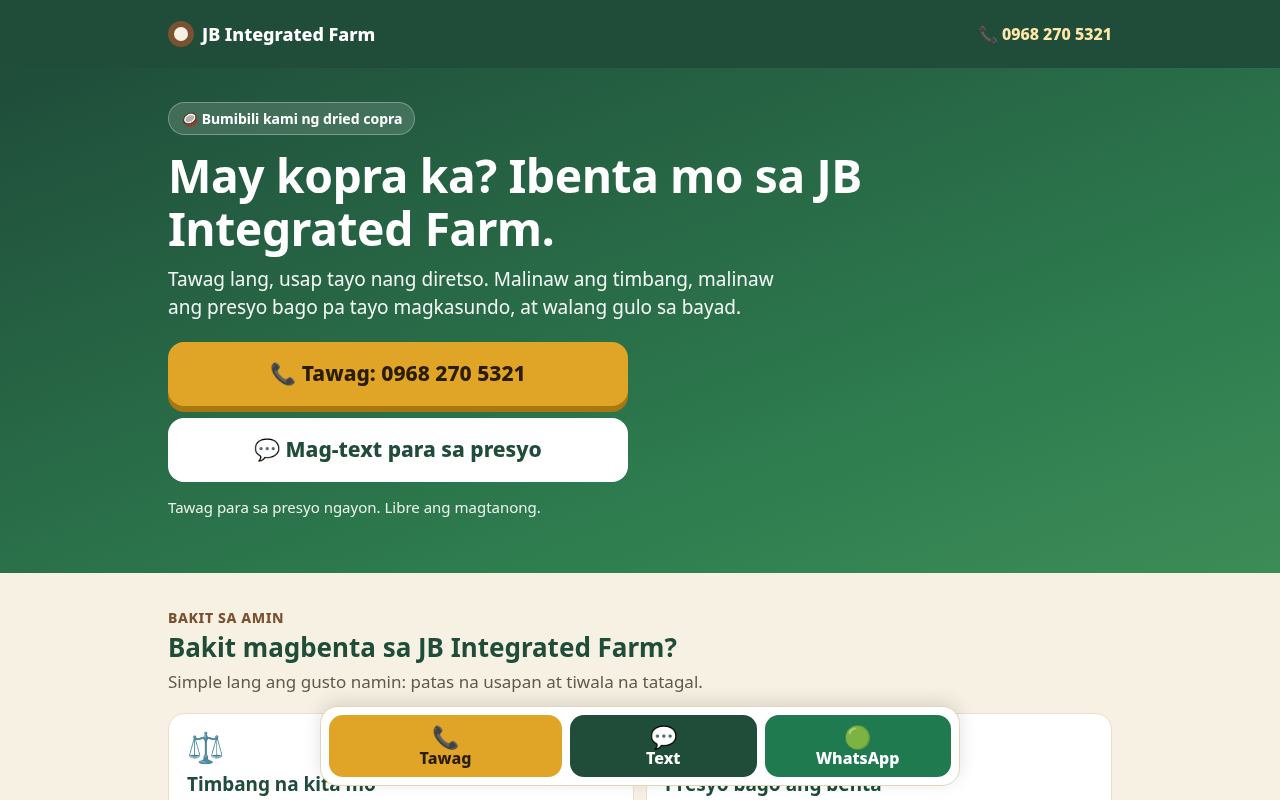
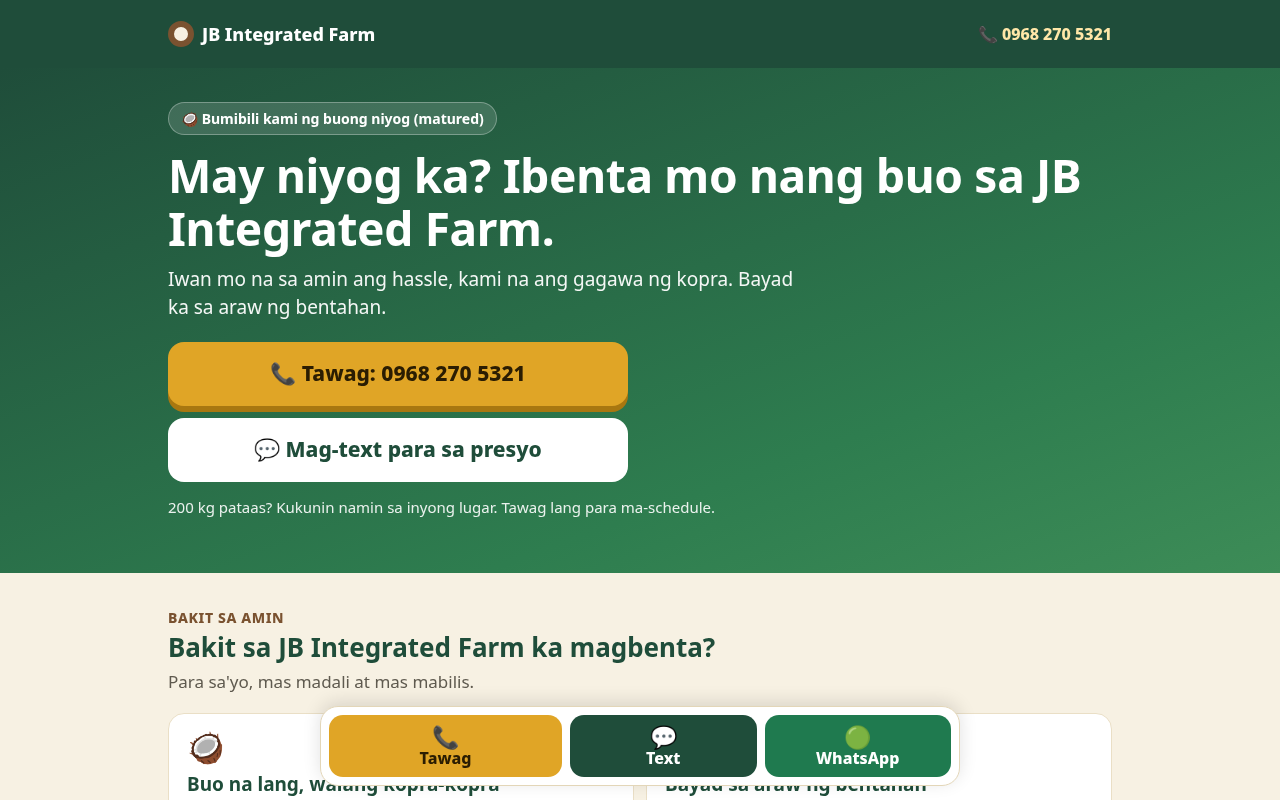
v1.6.0 /buying: offer is whole matured coconuts, pay on sale day, 200 kg+ pickup, Taglish copy, new og.png and tests (NOT deployed)

diff --git a/buying/index.html b/buying/index.html
@@ -3,38 +3,98 @@
 <head>
 <meta charset="utf-8">
 <meta name="viewport" content="width=device-width,initial-scale=1,viewport-fit=cover">
-<title>Magbenta ng Kopra sa JB Integrated Farm | Tawag 0968 270 5321</title>
-<meta name="description" content="Nagbebenta ka ba ng dried copra? Bumibili ang JB Integrated Farm. Tawag o text sa 0968 270 5321 para sa presyo ngayon, timbang na malinaw, at bayad na walang gulo.">
+<title>Magbenta ng Buong Niyog sa JB Integrated Farm | Tawag 0968 270 5321</title>
+<meta name="description" content="Bumibili kami ng buong niyog na matured. Kami na ang gagawa ng kopra. Bayad ka sa araw ng bentahan. 200 kg pataas, kukunin namin sa inyong lugar. Tawag 0968 270 5321.">
 <link rel="canonical" href="https://copra.johnnybodegas.com/buying">
 <meta name="theme-color" content="#1f4d3a">
 <meta property="og:type" content="website">
 <meta property="og:site_name" content="JB Integrated Farm">
-<meta property="og:title" content="Magbenta ng Kopra sa JB Integrated Farm">
-<meta property="og:description" content="Bumibili kami ng dried copra. Tawag o text sa 0968 270 5321 para sa presyo ngayon.">
+<meta property="og:title" content="Magbenta ng Buong Niyog sa JB Integrated Farm">
+<meta property="og:description" content="Bumibili kami ng buong niyog na matured. Bayad sa araw ng bentahan. Tawag 0968 270 5321.">
 <meta property="og:url" content="https://copra.johnnybodegas.com/buying">
 <meta property="og:image" content="https://copra.johnnybodegas.com/buying/og.png">
 <meta property="og:image:width" content="1200">
 <meta property="og:image:height" content="630">
 <meta property="og:locale" content="tl_PH">
 <meta name="twitter:card" content="summary_large_image">
-<meta name="twitter:title" content="Magbenta ng Kopra sa JB Integrated Farm">
-<meta name="twitter:description" content="Bumibili kami ng dried copra. Tawag o text sa 0968 270 5321 para sa presyo ngayon.">
+<meta name="twitter:title" content="Magbenta ng Buong Niyog sa JB Integrated Farm">
+<meta name="twitter:description" content="Bumibili kami ng buong niyog na matured. Bayad sa araw ng bentahan. Tawag 0968 270 5321.">
 <meta name="twitter:image" content="https://copra.johnnybodegas.com/buying/og.png">
 <link rel="icon" href="../icons/icon-192.png">
 <script type="application/ld+json">
-{"@context":"https://schema.org","@type":"Organization","name":"JB Integrated Farm","telephone":"+639682705321","url":"https://copra.johnnybodegas.com/buying"}
+{"@context": "https://schema.org", "@type": "Organization", "name": "JB Integrated Farm", "telephone": "+639682705321", "url": "https://copra.johnnybodegas.com/buying"}
 </script>
 <script type="application/ld+json">
-{"@context":"https://schema.org","@type":"FAQPage","mainEntity":[
-{"@type":"Question","name":"Magkano ang bili ninyo ng kopra?","acceptedAnswer":{"@type":"Answer","text":"Nagbabago ang presyo ng kopra depende sa merkado. Tawag o text sa 0968 270 5321 para sa presyo ngayon bago ka magdala o magpa-pickup."}},
-{"@type":"Question","name":"Anong klase ng kopra ang binibili ninyo?","acceptedAnswer":{"@type":"Answer","text":"Dried copra (tuyong kopra). Mas tuyo at mas malinis, mas maganda. Sabihin sa amin ang dami at kondisyon para makapag-usap tayo."}},
-{"@type":"Question","name":"May minimum ba na kilo?","acceptedAnswer":{"@type":"Answer","text":"Tawag muna para mapag-usapan. Sabihin kung ilang kilo ang meron ka at kung saan ka, at sasabihin namin kung paano ang pinakamadali."}},
-{"@type":"Question","name":"Kayo ba ang kukuha o ako ang magdadala?","acceptedAnswer":{"@type":"Answer","text":"Pinag-uusapan namin ito sa tawag. Depende sa dami at lugar, pwede ang pickup o drop-off. Malinaw ito bago pa tayo magkasundo."}},
-{"@type":"Question","name":"Paano ang timbang?","acceptedAnswer":{"@type":"Answer","text":"Tinitimbang ang kopra sa harap mo para pareho nating nakikita ang kilo. Walang tagong bawas."}},
-{"@type":"Question","name":"Paano at kailan ang bayad?","acceptedAnswer":{"@type":"Answer","text":"Pinag-uusapan ang paraan ng bayad bago ang benta, para alam mo na agad kung paano at kailan ka mababayaran."}},
-{"@type":"Question","name":"Paano kung hindi pa gaanong tuyo ang kopra ko?","acceptedAnswer":{"@type":"Answer","text":"Tawag pa rin. Sabihin ang kondisyon at pag-uusapan natin. Mas maganda kung patuyuin muna nang maayos para mas sulit ang benta mo."}},
-{"@type":"Question","name":"Paano kayo makokontak?","acceptedAnswer":{"@type":"Answer","text":"Tawag o text sa 0968 270 5321. Pwede ring mag-message sa WhatsApp sa parehong numero."}}
-]}
+{
+"@context": "https://schema.org",
+"@type": "FAQPage",
+"mainEntity": [
+{
+"@type": "Question",
+"name": "Anong klase ng niyog ang binibili ninyo?",
+"acceptedAnswer": {
+"@type": "Answer",
+"text": "Buong niyog na matured, yung matanda na at hinog na hinog. Hindi pa tinatapahan, buo pa. Kung hindi ka sigurado, tawagan kami para ma-confirm kung pasok ang niyog ninyo."
+}
+},
+{
+"@type": "Question",
+"name": "Kailangan ko pa bang gawing kopra?",
+"acceptedAnswer": {
+"@type": "Answer",
+"text": "Hindi na po. Kami na ang bahala sa pagbabalat, pagbiyak at pagpapatuyo. Ibenta mo lang ang buong niyog."
+}
+},
+{
+"@type": "Question",
+"name": "Magkano ang bili ninyo?",
+"acceptedAnswer": {
+"@type": "Answer",
+"text": "Nagbabago ang presyo ayon sa merkado. Tawag o text lang sa 0968 270 5321 para sa presyo ngayon."
+}
+},
+{
+"@type": "Question",
+"name": "Kailan ako mababayaran?",
+"acceptedAnswer": {
+"@type": "Answer",
+"text": "Bayad ka sa araw ng bentahan."
+}
+},
+{
+"@type": "Question",
+"name": "Kukunin ba ninyo ang niyog sa amin?",
+"acceptedAnswer": {
+"@type": "Answer",
+"text": "Oo po, kung 200 kg pataas, kukunin namin sa inyong lugar. Tawag lang para ma-schedule."
+}
+},
+{
+"@type": "Question",
+"name": "Paano kung wala pang 200 kg?",
+"acceptedAnswer": {
+"@type": "Answer",
+"text": "Tawag lang po, pag-usapan natin ang pinakamainam."
+}
+},
+{
+"@type": "Question",
+"name": "Ano ang kailangan kong sabihin pag tumawag ako?",
+"acceptedAnswer": {
+"@type": "Answer",
+"text": "Ilang kilo ang niyog mo (kahit tantya lang) at saan ang lugar mo. Yun lang muna."
+}
+},
+{
+"@type": "Question",
+"name": "Paano kayo makokontak?",
+"acceptedAnswer": {
+"@type": "Answer",
+"text": "Tawag o text sa 0968 270 5321. Pwede rin sa WhatsApp, parehong numero."
+}
+}
+]
+}
 </script>
 <style>
 :root{--g:#1f4d3a;--g2:#2e7d4f;--b:#7a5230;--c:#f7f1e3;--c2:#efe5cf;--a:#e0a526;--t:#2b2a26;--m:#5f5a4f}
@@ -100,34 +160,34 @@ footer{text-align:center;color:var(--m);font-size:14px;padding:22px 0 30px}
 <header class="top"><div class="wrap"><a class="brand" href="#"><i class="dot"></i>JB Integrated Farm</a><a class="tel" href="tel:+639682705321">📞 0968 270 5321</a></div></header>
 
 <div class="hero"><div class="wrap">
- <span class="tag">🥥 Bumibili kami ng dried copra</span>
- <h1>May kopra ka? Ibenta mo sa JB Integrated Farm.</h1>
- <p class="lead">Tawag lang, usap tayo nang diretso. Malinaw ang timbang, malinaw ang presyo bago pa tayo magkasundo, at walang gulo sa bayad.</p>
+ <span class="tag">🥥 Bumibili kami ng buong niyog (matured)</span>
+ <h1>May niyog ka? Ibenta mo nang buo sa JB Integrated Farm.</h1>
+ <p class="lead" id="tagline">Iwan mo na sa amin ang hassle, kami na ang gagawa ng kopra. Bayad ka sa araw ng bentahan.</p>
  <div class="ctas">
   <a class="big call" href="tel:+639682705321">📞 Tawag: 0968 270 5321</a>
-  <a class="big sms js-sms" href="sms:+639682705321?body=Magandang%20araw%20po%2C%20magbebenta%20po%20ako%20ng%20kopra.%20Ilang%20kilo%3A%20__%20.%20Lugar%3A%20__">💬 Mag-text para sa presyo</a>
+  <a class="big sms" href="sms:+639682705321?body=Magandang%20araw%20po%2C%20magbebenta%20po%20ako%20ng%20buong%20niyog%20%28matured%29.%20Ilang%20kilo%3A%20__%20.%20Lugar%3A%20__">💬 Mag-text para sa presyo</a>
  </div>
- <p class="note">Tawag para sa presyo ngayon. Libre ang magtanong.</p>
+ <p class="note">200 kg pataas? Kukunin namin sa inyong lugar. Tawag lang para ma-schedule.</p>
 </div></div>
 
 <section><div class="wrap">
  <p class="kick">Bakit sa amin</p>
- <h2>Bakit magbenta sa JB Integrated Farm?</h2>
- <p class="sub">Simple lang ang gusto namin: patas na usapan at tiwala na tatagal.</p>
+ <h2>Bakit sa JB Integrated Farm ka magbenta?</h2>
+ <p class="sub">Para sa'yo, mas madali at mas mabilis.</p>
  <div class="grid g2">
-  <div class="card"><span class="ic">⚖</span><h3>Timbang na kita mo</h3><p>Tinitimbang sa harap mo. Pareho nating nakikita ang kilo.</p></div>
-  <div class="card"><span class="ic">🤝</span><h3>Presyo bago ang benta</h3><p>Sasabihin namin ang presyo ngayon bago ka magdala o bago kami kumuha. Walang sorpresa.</p></div>
-  <div class="card"><span class="ic">📞</span><h3>Isang tawag lang</h3><p>Diretso sa amin ang numero. Tawag, text o WhatsApp, sasagutin ka namin.</p></div>
-  <div class="card"><span class="ic">🌾</span><h3>Kapwa magsasaka ang kausap mo</h3><p>Farm kami, hindi lang buyer. Alam namin ang hirap ng pagpapatuyo ng kopra.</p></div>
+  <div class="card"><span class="ic">🥥</span><h3>Buo na lang, walang kopra-kopra</h3><p>Hindi mo na kailangang magbalat, magbiyak at magpatuyo. Kami na ang gagawa ng kopra.</p></div>
+  <div class="card"><span class="ic">💵</span><h3>Bayad sa araw ng bentahan</h3><p>Hindi ka na maghihintay. Bayad ka sa mismong araw na nagbenta ka.</p></div>
+  <div class="card"><span class="ic">🚚</span><h3>200 kg pataas, kukunin namin</h3><p>Kung 200 kg pataas ang niyog mo, kukunin namin sa inyong lugar. Tawag lang para ma-arrange.</p></div>
+  <div class="card"><span class="ic">📞</span><h3>Isang tawag lang</h3><p>Tawag, text o WhatsApp sa 0968 270 5321. Simple lang ang usapan.</p></div>
  </div>
 </div></section>
 
 <section class="alt"><div class="wrap">
  <p class="kick">Ano ang binibili namin</p>
- <h2>Dried copra (tuyong kopra)</h2>
- <p class="sub">Kung may dried copra ka, maliit man o marami, tawag lang at pag-usapan natin. Sabihin ang dami at kondisyon para mabigyan ka namin ng malinaw na sagot.</p>
+ <h2>Buong niyog na matured</h2>
+ <p class="sub">Yung matanda na at hinog na hinog na niyog, buo pa at hindi pa tinatapahan. Hindi sigurado kung pasok ang niyog mo? Tawagan kami para ma-confirm kung pasok ang niyog ninyo.</p>
  <div class="price" id="price">
-  <div class="kick">Presyo ng kopra</div>
+  <div class="kick">Presyo ng niyog</div>
   <div class="pv" id="pv" hidden></div>
   <p style="margin:6px 0 14px"><b id="pmsg">Tawag para sa presyo ngayon.</b><br><span class="small" style="color:var(--m)">Nagbabago ang presyo ayon sa merkado, kaya tawag muna para sigurado.</span></p>
   <a class="big call" href="tel:+639682705321" style="max-width:420px;margin:0 auto">📞 Alamin ang presyo ngayon</a>
@@ -137,35 +197,33 @@ footer{text-align:center;color:var(--m);font-size:14px;padding:22px 0 30px}
 <section><div class="wrap">
  <p class="kick">Paano magbenta</p>
  <h2>4 na madaling hakbang</h2>
- <p class="sub">Walang komplikadong proseso.</p>
+ <p class="sub">Walang komplikado.</p>
  <div class="grid g4">
-  <div class="card step"><span class="num">1</span><h3>Tawag o text</h3><p>Tawag o text sa 0968 270 5321.</p></div>
-  <div class="card step"><span class="num">2</span><h3>Sabihin ang kilo at lugar</h3><p>Ilang kilo ang meron ka at saan ka.</p></div>
-  <div class="card step"><span class="num">3</span><h3>Magkasundo</h3><p>Usapan sa presyo, at kung pickup o drop-off.</p></div>
-  <div class="card step"><span class="num">4</span><h3>Timbang at bayad</h3><p>Timbang sa harap mo, tapos bayad ayon sa napagkasunduan.</p></div>
+  <div class="card step"><span class="num">1</span><h3>Tawag o text</h3><p>Sabihin ang dami at lugar.</p></div>
+  <div class="card step"><span class="num">2</span><h3>Usapan</h3><p>Pag-usapan ang presyo at kung pickup o dala.</p></div>
+  <div class="card step"><span class="num">3</span><h3>Bentahan</h3><p>Bentahan at bayad sa araw na iyon.</p></div>
+  <div class="card step"><span class="num">4</span><h3>Kami na ang bahala</h3><p>Kami na ang bahala sa kopra.</p></div>
  </div>
 </div></section>
 
 <section class="alt"><div class="wrap">
  <p class="kick">Bago ka tumawag</p>
- <h2>Ihanda ang kopra mo</h2>
- <p class="sub">Simpleng tips para mas sulit ang benta mo.</p>
+ <h2>Ihanda ang niyog mo</h2>
+ <p class="sub">Simpleng tips lang.</p>
  <ul class="tips">
-  <li><b>Patuyuin nang maayos.</b> Mas tuyo, mas maganda ang kalidad at mas madali ang usapan.</li>
-  <li><b>Malinis.</b> Walang lupa, bato, o ibang halo.</li>
-  <li><b>Naka-sako.</b> Ilagay sa matibay na sako para madaling buhatin at timbangin.</li>
-  <li><b>Tantyahin ang dami.</b> Ilang sako o ilang kilo, para mabilis ang usapan.</li>
-  <li><b>Iwas basa.</b> Itago sa tuyong lugar habang naghihintay ng pickup o drop-off.</li>
+  <li><b>Piliin ang matured na niyog.</b> Yung matanda na at buo pa.</li>
+  <li><b>Ipunin sa isang lugar.</b> Para mas mabilis ang kuha o dala.</li>
+  <li><b>Sabihin ang tinatayang kilo.</b> Kahit tantya lang, para mabilis ang usapan.</li>
  </ul>
 </div></section>
 
 <section><div class="wrap">
  <p class="kick">Tiwala at linaw</p>
- <h2>Patas at malinaw, sa bawat benta</h2>
+ <h2>Malinaw ang usapan, bago pa ang bentahan</h2>
  <div class="grid g3">
-  <div class="card"><span class="ic">🔎</span><h3>Malinaw ang presyo</h3><p>Sasabihin namin ang presyo ngayon bago ang benta. Ikaw ang magdedesisyon.</p></div>
-  <div class="card"><span class="ic">📒</span><h3>May tamang record</h3><p>Nirerecord namin ang bawat bili: petsa, kilo at halaga, para malinaw sa ating dalawa.</p></div>
-  <div class="card"><span class="ic">☎</span><h3>Totoong numero</h3><p>Isang numero lang ang kailangan mo: 0968 270 5321. Kami mismo ang sasagot.</p></div>
+  <div class="card"><span class="ic">🔎</span><h3>Presyo muna bago benta</h3><p>Tawag ka muna para sa presyo ngayon. Ikaw ang magdedesisyon kung itutuloy.</p></div>
+  <div class="card"><span class="ic">💵</span><h3>Bayad sa araw ding iyon</h3><p>Bayad ka sa araw ng bentahan. Walang hintay-hintay.</p></div>
+  <div class="card"><span class="ic">☎</span><h3>Isang numero lang</h3><p>0968 270 5321 para sa tawag, text at WhatsApp.</p></div>
  </div>
 </div></section>
 
@@ -173,40 +231,40 @@ footer{text-align:center;color:var(--m);font-size:14px;padding:22px 0 30px}
  <p class="kick">Mga tanong</p>
  <h2>Madalas itanong (FAQ)</h2>
  <div style="margin-top:14px">
-  <details><summary>Magkano ang bili ninyo ng kopra?</summary><p>Nagbabago ang presyo ng kopra depende sa merkado. Tawag o text sa 0968 270 5321 para sa presyo ngayon bago ka magdala o magpa-pickup.</p></details>
-  <details><summary>Anong klase ng kopra ang binibili ninyo?</summary><p>Dried copra (tuyong kopra). Mas tuyo at mas malinis, mas maganda. Sabihin sa amin ang dami at kondisyon para makapag-usap tayo.</p></details>
-  <details><summary>May minimum ba na kilo?</summary><p>Tawag muna para mapag-usapan. Sabihin kung ilang kilo ang meron ka at kung saan ka, at sasabihin namin kung paano ang pinakamadali.</p></details>
-  <details><summary>Kayo ba ang kukuha o ako ang magdadala?</summary><p>Pinag-uusapan namin ito sa tawag. Depende sa dami at lugar, pwede ang pickup o drop-off. Malinaw ito bago pa tayo magkasundo.</p></details>
-  <details><summary>Paano ang timbang?</summary><p>Tinitimbang ang kopra sa harap mo para pareho nating nakikita ang kilo. Walang tagong bawas.</p></details>
-  <details><summary>Paano at kailan ang bayad?</summary><p>Pinag-uusapan ang paraan ng bayad bago ang benta, para alam mo na agad kung paano at kailan ka mababayaran.</p></details>
-  <details><summary>Paano kung hindi pa gaanong tuyo ang kopra ko?</summary><p>Tawag pa rin. Sabihin ang kondisyon at pag-uusapan natin. Mas maganda kung patuyuin muna nang maayos para mas sulit ang benta mo.</p></details>
-  <details><summary>Paano kayo makokontak?</summary><p>Tawag o text sa 0968 270 5321. Pwede ring mag-message sa WhatsApp sa parehong numero.</p></details>
+  <details><summary>Anong klase ng niyog ang binibili ninyo?</summary><p>Buong niyog na matured, yung matanda na at hinog na hinog. Hindi pa tinatapahan, buo pa. Kung hindi ka sigurado, tawagan kami para ma-confirm kung pasok ang niyog ninyo.</p></details>
+  <details><summary>Kailangan ko pa bang gawing kopra?</summary><p>Hindi na po. Kami na ang bahala sa pagbabalat, pagbiyak at pagpapatuyo. Ibenta mo lang ang buong niyog.</p></details>
+  <details><summary>Magkano ang bili ninyo?</summary><p>Nagbabago ang presyo ayon sa merkado. Tawag o text lang sa 0968 270 5321 para sa presyo ngayon.</p></details>
+  <details><summary>Kailan ako mababayaran?</summary><p>Bayad ka sa araw ng bentahan.</p></details>
+  <details><summary>Kukunin ba ninyo ang niyog sa amin?</summary><p>Oo po, kung 200 kg pataas, kukunin namin sa inyong lugar. Tawag lang para ma-schedule.</p></details>
+  <details><summary>Paano kung wala pang 200 kg?</summary><p>Tawag lang po, pag-usapan natin ang pinakamainam.</p></details>
+  <details><summary>Ano ang kailangan kong sabihin pag tumawag ako?</summary><p>Ilang kilo ang niyog mo (kahit tantya lang) at saan ang lugar mo. Yun lang muna.</p></details>
+  <details><summary>Paano kayo makokontak?</summary><p>Tawag o text sa 0968 270 5321. Pwede rin sa WhatsApp, parehong numero.</p></details>
  </div>
 </div></section>
 
 <section class="final"><div class="wrap">
- <h2>Handa ka nang magbenta ng kopra?</h2>
- <p class="sub">Tawag na ngayon para sa presyo at schedule.</p>
+ <h2>May matured na niyog ka? Tawag na!</h2>
+ <p class="sub">Iwan mo na sa amin ang hassle, kami na ang gagawa ng kopra. Bayad ka sa araw ng bentahan.</p>
  <div class="num-big"><a href="tel:+639682705321">0968 270 5321</a></div>
  <div class="ctas">
   <a class="big call" href="tel:+639682705321">📞 Tawag na</a>
-  <a class="big sms js-sms" href="sms:+639682705321?body=Magandang%20araw%20po%2C%20magbebenta%20po%20ako%20ng%20kopra.%20Ilang%20kilo%3A%20__%20.%20Lugar%3A%20__">💬 Mag-text</a>
+  <a class="big sms" href="sms:+639682705321?body=Magandang%20araw%20po%2C%20magbebenta%20po%20ako%20ng%20buong%20niyog%20%28matured%29.%20Ilang%20kilo%3A%20__%20.%20Lugar%3A%20__">💬 Mag-text</a>
  </div>
  <p class="small" style="margin-top:16px">May Viber ka? <a href="viber://chat?number=%2B639682705321">Mag-message sa Viber</a> (kailangan ng Viber app).</p>
 </div></section>
 
-<footer><div class="wrap">JB Integrated Farm · <a href="tel:+639682705321">0968 270 5321</a><br><span class="small">Bumibili ng dried copra.</span></div></footer>
+<footer><div class="wrap">JB Integrated Farm · <a href="tel:+639682705321">0968 270 5321</a><br><span class="small">Bumibili ng buong niyog na matured.</span></div></footer>
 
 <nav class="bar" aria-label="Contact">
  <a class="b1" href="tel:+639682705321"><span>📞</span>Tawag</a>
- <a class="b2 js-sms" href="sms:+639682705321?body=Magandang%20araw%20po%2C%20magbebenta%20po%20ako%20ng%20kopra.%20Ilang%20kilo%3A%20__%20.%20Lugar%3A%20__"><span>💬</span>Text</a>
- <a class="b3" href="https://wa.me/639682705321?text=Magandang%20araw%20po%2C%20magbebenta%20po%20ako%20ng%20kopra.%20Ilang%20kilo%3A%20__%20.%20Lugar%3A%20__" target="_blank" rel="noopener"><span>🟢</span>WhatsApp</a>
+ <a class="b2" href="sms:+639682705321?body=Magandang%20araw%20po%2C%20magbebenta%20po%20ako%20ng%20buong%20niyog%20%28matured%29.%20Ilang%20kilo%3A%20__%20.%20Lugar%3A%20__"><span>💬</span>Text</a>
+ <a class="b3" href="https://wa.me/639682705321?text=Magandang%20araw%20po%2C%20magbebenta%20po%20ako%20ng%20buong%20niyog%20%28matured%29.%20Ilang%20kilo%3A%20__%20.%20Lugar%3A%20__" target="_blank" rel="noopener"><span>🟢</span>WhatsApp</a>
 </nav>
 
 <script>
 // PRICE: leave '' to hide (default). To show a price later, set one value, for example PRICE_TODAY='PHP 00.00 / kg (as of Nov 1)'.
 var PRICE_TODAY='';
-if(PRICE_TODAY){var pv=document.getElementById('pv');pv.textContent=PRICE_TODAY;pv.hidden=false;document.getElementById('pmsg').textContent='Presyo ngayon. Tawag para kumpirmahin bago magdala.'}
+if(PRICE_TODAY){var pv=document.getElementById('pv');pv.textContent=PRICE_TODAY;pv.hidden=false;document.getElementById('pmsg').textContent='Presyo ngayon. Tawag para ma-confirm bago magbenta.'}
 </script>
 </body>
 </html>

diff --git a/tests/brand.test.js b/tests/brand.test.js
@@ -11,7 +11,7 @@ test('user-visible name is JB Integrated Farm',()=>{const m=JSON.parse(rd('manif
 test('storage names kept for data carry-over',()=>{assert.ok(rd('db.js').includes("'kopra'"));assert.ok(rd('sw.js').includes("const V='kopra-'+SW_VERSION"));assert.ok(rd('app.js').includes("'kopra_sync'"))});
 test('phone links are correct everywhere',()=>{for(const f of ['index.html','app.js','buying/index.html']){const s=rd(f);const tels=s.match(/tel:[^"']+/g)||[];assert.ok(tels.length>0,f);tels.forEach(t=>assert.equal(t,'tel:+639682705321',f))}
   const b=rd('buying/index.html');(b.match(/sms:[^"?]+/g)).forEach(t=>assert.equal(t,'sms:+639682705321'));(b.match(/https:\/\/wa\.me\/[0-9]+/g)).forEach(t=>assert.equal(t,'https://wa.me/639682705321'));
-  assert.ok(b.includes('viber://chat?number=%2B639682705321'));const msg=decodeURIComponent(b.match(/sms:\+639682705321\?body=([^"]+)/)[1]);assert.equal(msg,'Magandang araw po, magbebenta po ako ng kopra. Ilang kilo: __ . Lugar: __')});
+  assert.ok(b.includes('viber://chat?number=%2B639682705321'));const want='Magandang araw po, magbebenta po ako ng buong niyog (matured). Ilang kilo: __ . Lugar: __';[...b.matchAll(/(?:body|text)=([^"]+)/g)].forEach(m=>assert.equal(decodeURIComponent(m[1]),want))});
 test('buying page SEO, JSON-LD and no price claim',()=>{const b=rd('buying/index.html');assert.ok(b.includes('<link rel="canonical" href="https://copra.johnnybodegas.com/buying">'));
   for(const k of ['og:title','og:description','og:image','twitter:card'])assert.ok(b.includes(k),k);
   const ld=[...b.matchAll(/<script type="application\/ld\+json">([\s\S]*?)<\/script>/g)].map(m=>JSON.parse(m[1]));const org=ld.find(x=>x['@type']==='Organization');assert.deepEqual(Object.keys(org).sort(),['@context','@type','name','telephone','url']);assert.equal(org.telephone,'+639682705321');
@@ -19,3 +19,8 @@ test('buying page SEO, JSON-LD and no price claim',()=>{const b=rd('buying/index
   assert.ok(b.includes("var PRICE_TODAY='';"));assert.ok(!/₱\s*\d|PHP\s*[1-9]/.test(b.replace(/\/\/ PRICE:.*\n/,'')));assert.ok(!b.includes('\u2014'));assert.ok(!/serviceWorker|rel="manifest"/.test(b));assert.ok(fs.existsSync(path.join(ROOT,'buying/og.png')))});
 test('version consistency 1.6.0',()=>{const v=rd('version.js').match(/APP_VERSION='([^']+)'/)[1],s=rd('sw.js').match(/SW_VERSION='([^']+)'/)[1];assert.equal(v,'1.6.0');assert.equal(s,v);assert.ok(rd('README.md').includes('v1.6.0'))});
 test('SW sends /buying to the network, never the app shell',()=>{const s=rd('sw.js');assert.ok(s.includes('isBuying(u)'));assert.ok(!/respondWith\([^)]*index\.html/.test(s))});
+test('buying offer: whole matured coconuts, tagline, 200 kg pickup, no dried copra claim',()=>{const b=rd('buying/index.html');
+  assert.ok(b.includes('Iwan mo na sa amin ang hassle, kami na ang gagawa ng kopra. Bayad ka sa araw ng bentahan.'));
+  assert.ok(b.includes('200 kg pataas, kukunin namin sa inyong lugar'));assert.ok(/buong niyog/.test(b)&&/matured/.test(b));
+  assert.ok(!/dried copra|tuyong kopra|libre|free pickup/i.test(b));assert.ok(!/Tinitimbang sa harap|mismo ang sasagot|depende sa dami/i.test(b));
+  assert.ok(b.includes('Tawag lang po, pag-usapan natin ang pinakamainam.'));assert.ok(b.includes('Tawag para sa presyo ngayon'))});

diff --git a/app.js b/app.js
@@ -259,7 +259,7 @@ function renderMore(){const s=S(),c=cfg();
  <p class="sub" id="s_lbhelp">Default off. Early on, capital spread over few kg makes cost per kg look high; it falls as you buy more.</p><div class="note" id="s_err" style="display:none;background:#f8dcd5;border-color:#b5462f"></div><button class="btn" id="ss">Save settings</button></div>
  ${FLAGS?`<div class="card" id="synccard"><h2>Cloud sync (beta) ☁</h2><p class="sub">App works fully offline. Fill these in only when the Supabase project exists.</p>
  ${fld('c_url','Supabase URL',c.url||'','text')}${fld('c_key','Anon key',c.anonKey||'','text')}${fld('c_team','Team ID',c.teamId||'','text')}${fld('c_em','Email',c.user||'','email')}${fld('c_pw','Password','','password')}
- <button class="btn" id="cl">Sign in & sync now</button><p class="sub" id="cs" style="margin-top:8px">${c.accessToken?'Signed in as '+esc(c.user):'Not connected (offline only)'} · unsynced: <span id="cu"></span></p><div class="note" id="syncerr" style="display:none"></div></div>`:''}<div class="card" id="about"><h2>About</h2><p class="sub" style="margin:0 0 8px">JB Integrated Farm · copra and uling records (works offline).</p><a class="btn" href="tel:+639682705321" id="abtel">📞 Call 0968 270 5321</a><a class="btn sec" href="buying/" id="abbuy">🥥 Buying page (para sa nagbebenta ng kopra)</a></div><p class="sub" style="text-align:center">JB Integrated Farm v${typeof APP_VERSION!=='undefined'?APP_VERSION:'?'}</p>`;
+ <button class="btn" id="cl">Sign in & sync now</button><p class="sub" id="cs" style="margin-top:8px">${c.accessToken?'Signed in as '+esc(c.user):'Not connected (offline only)'} · unsynced: <span id="cu"></span></p><div class="note" id="syncerr" style="display:none"></div></div>`:''}<div class="card" id="about"><h2>About</h2><p class="sub" style="margin:0 0 8px">JB Integrated Farm · copra and uling records (works offline).</p><a class="btn" href="tel:+639682705321" id="abtel">📞 Call 0968 270 5321</a><a class="btn sec" href="buying/" id="abbuy">🥥 Buying page (nagbebenta ng buong niyog?)</a></div><p class="sub" style="text-align:center">JB Integrated Farm v${typeof APP_VERSION!=='undefined'?APP_VERSION:'?'}</p>`;
  store.meta('lastSyncError').then(e=>{const x=$('#syncerr');if(x&&e){x.style.display='block';x.textContent='⚠ Last sync failed: '+e.message+' ('+e.at+')'}});
  FLAGS&&store.adapter.all('batches').then(async()=>{let n=0;for(const t of store.TABLES)n+=(await store.unsynced(t)).length;$('#cu').textContent=n});
  const dl=(name,txt,type)=>{const a=document.createElement('a');a.href=URL.createObjectURL(new Blob([txt],{type}));a.download=name;a.click()};

diff --git a/index.html b/index.html
@@ -1,7 +1,7 @@
 <!DOCTYPE html><html lang="en"><head><meta charset="utf-8"><meta name="viewport" content="width=device-width,initial-scale=1,viewport-fit=cover">
 <title>JB Integrated Farm</title><meta name="description" content="JB Integrated Farm copra and uling records. Works offline."><meta name="application-name" content="JB Integrated Farm"><meta name="apple-mobile-web-app-title" content="JB Farm"><meta name="theme-color" content="#1f4d3a"><link rel="manifest" href="manifest.webmanifest"><link rel="icon" href="icons/icon-192.png"><link rel="apple-touch-icon" href="icons/icon-192.png">
 <link rel="stylesheet" href="style.css"></head><body>
-<header><h1>🥥 JB Integrated Farm</h1><p id="hdr">Copra + uling trading · offline</p><p class="hcall"><a href="tel:+639682705321" id="hdrtel">📞 0968 270 5321</a> · <a href="buying/" id="hdrbuy">Nagbebenta ng kopra? Buying page</a></p></header>
+<header><h1>🥥 JB Integrated Farm</h1><p id="hdr">Copra + uling trading · offline</p><p class="hcall"><a href="tel:+639682705321" id="hdrtel">📞 0968 270 5321</a> · <a href="buying/" id="hdrbuy">May niyog? Buying page</a></p></header>
 <main>
 <section class="view on" id="v-home"></section>
 <section class="view" id="v-add">

diff --git a/README.md b/README.md
@@ -1,5 +1,5 @@
 # JB Integrated Farm (formerly Kopra Ko): offline copra + uling tracker (PWA) v1.6.0
-Live site: copra.johnnybodegas.com (app) and copra.johnnybodegas.com/buying (sales page for farmers selling copra).
+Live site: copra.johnnybodegas.com (app) and copra.johnnybodegas.com/buying (sales page: we buy whole matured coconuts from farmers).
 
 ## v1.6.0: JB Integrated Farm rename + /buying sales page
 - Everything the user sees now says **JB Integrated Farm** (title, header, manifest name, short_name "JB Farm", About card, version line, export file names `jb-farm-backup-<date>.json` and `jb-farm-<date>.csv`). Contact 0968 270 5321 is a tap-to-call link in the header and the About card (Backup tab).
